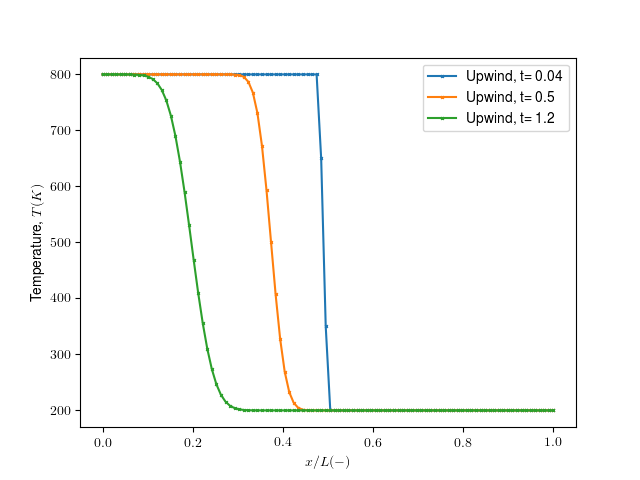
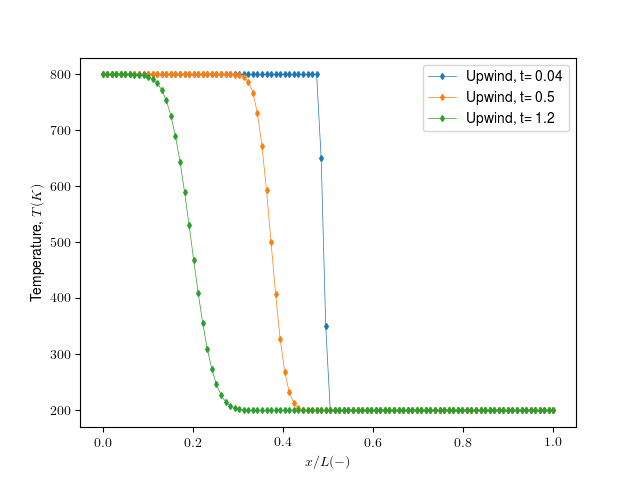
updated figure properties

diff --git a/Assignment_script/TEP4165_exercise_3_python.py b/Assignment_script/TEP4165_exercise_3_python.py
@@ -51,7 +51,7 @@ if __name__ == '__main__':
         print(t_end)
 
         T = upwind(u, Tb, NJ, T_0, C, t_end)
-        ax.plot(x,T,marker='x',markersize=2,linestyle='-',label='Upwind, t= '+np.str(t_end))
+        ax.plot(x,T,marker='d',markersize=3,linestyle='-',linewidth=0.5,label='Upwind, t= '+np.str(t_end))
         ax.legend(loc=0)
 
         #ax2.plot(x_vec / x_vec[-1], T_analytical[0][t_idx, :], linestyle='-',
